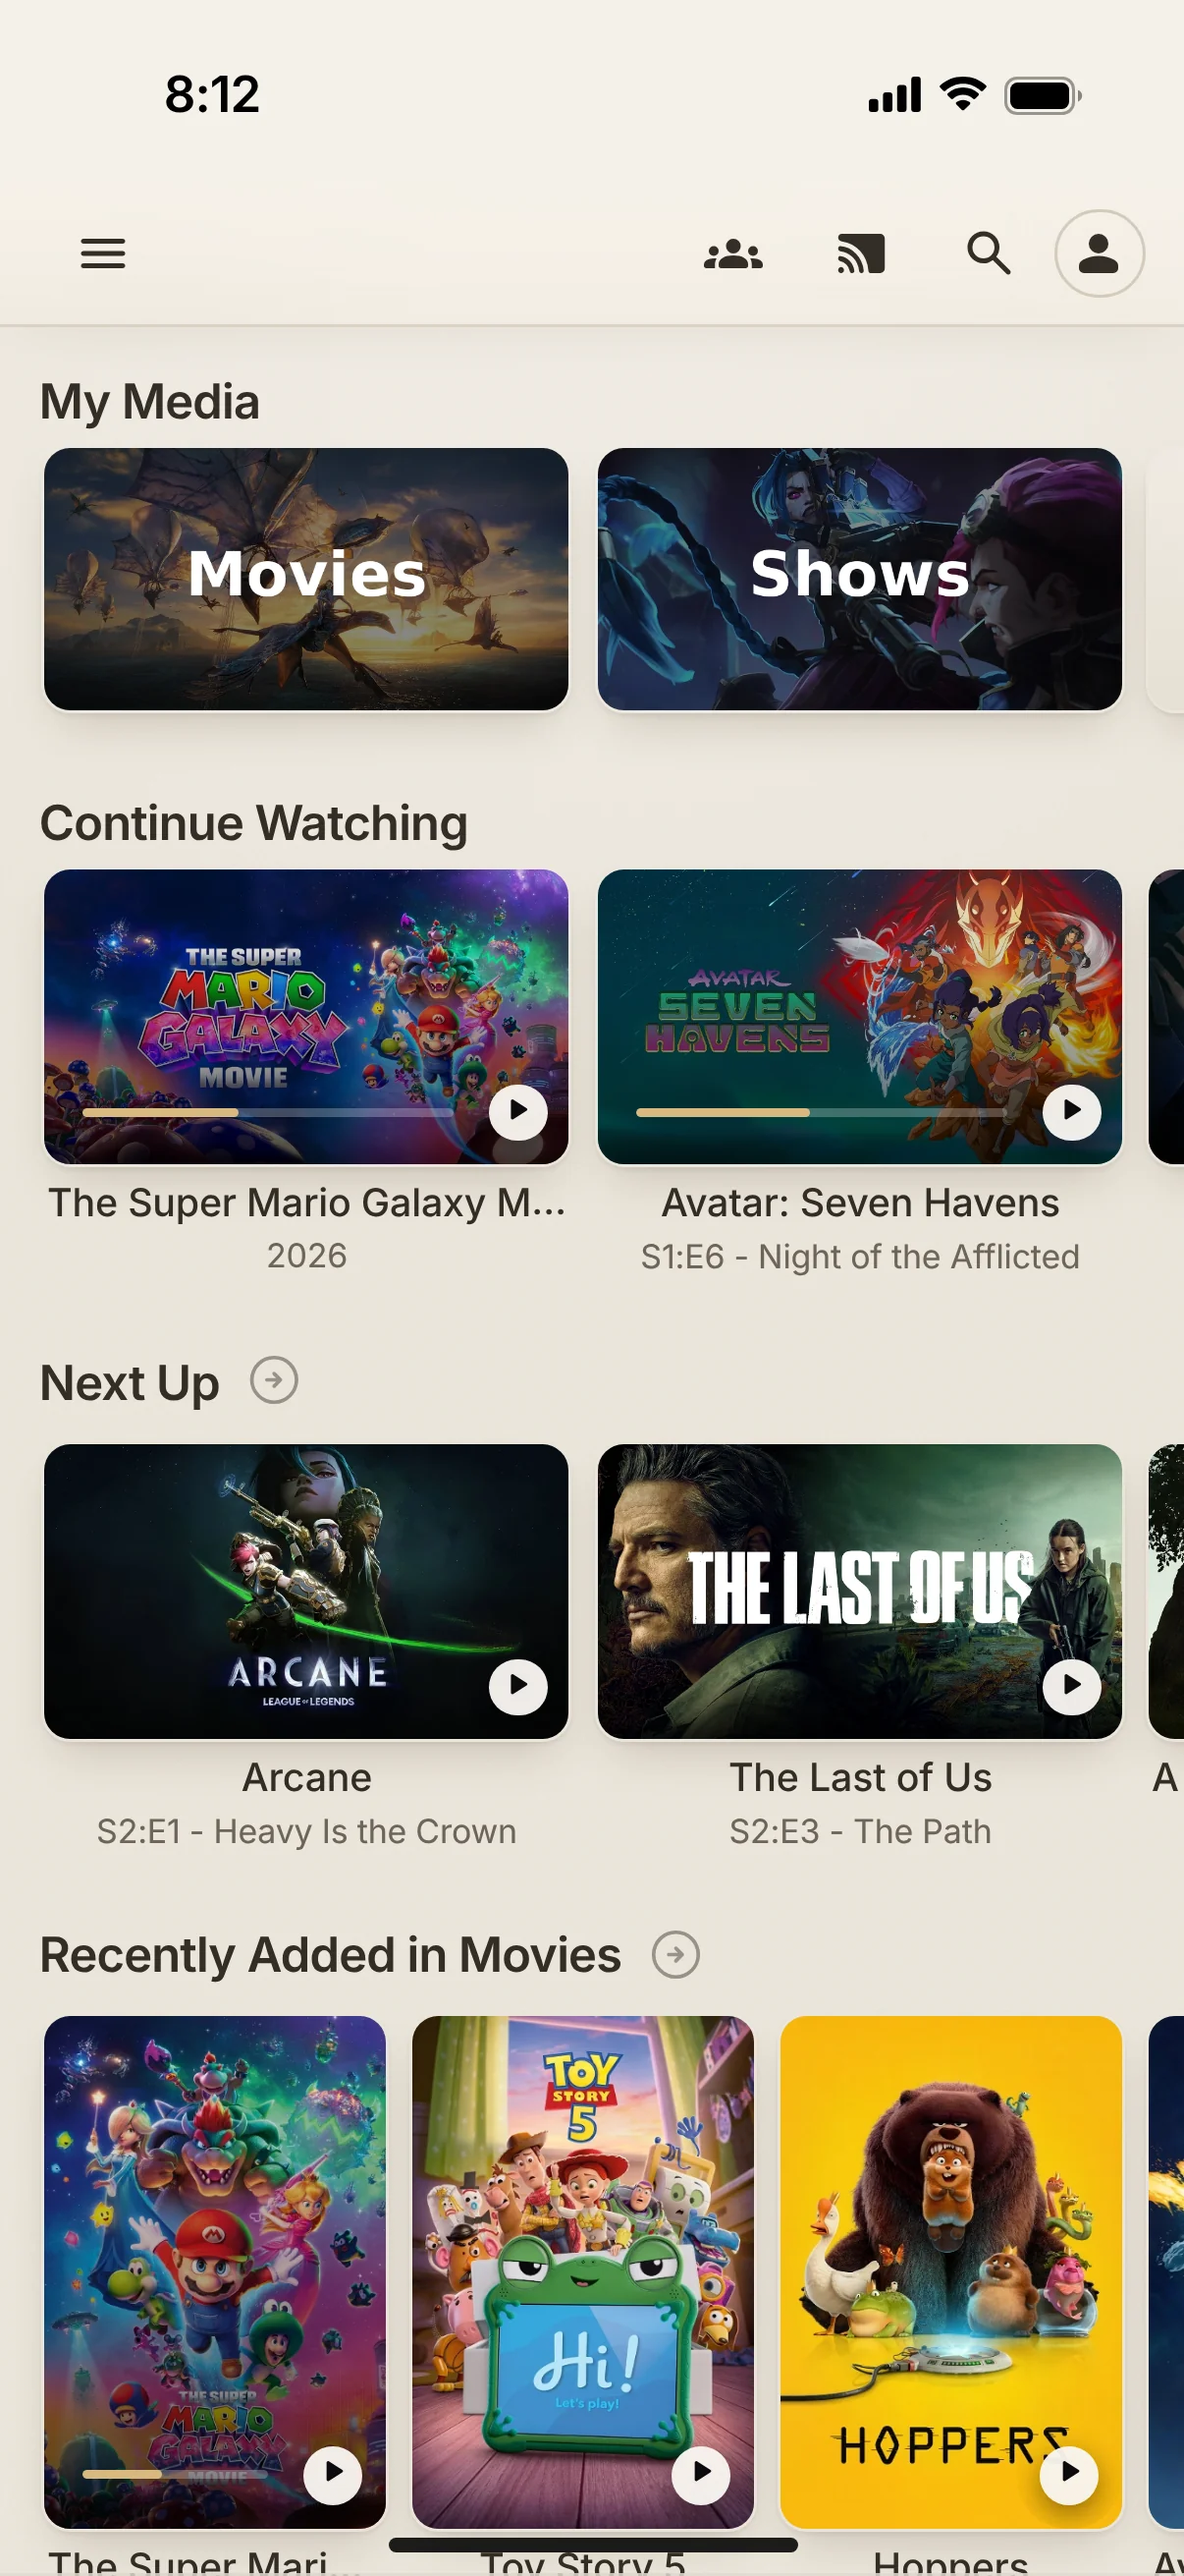
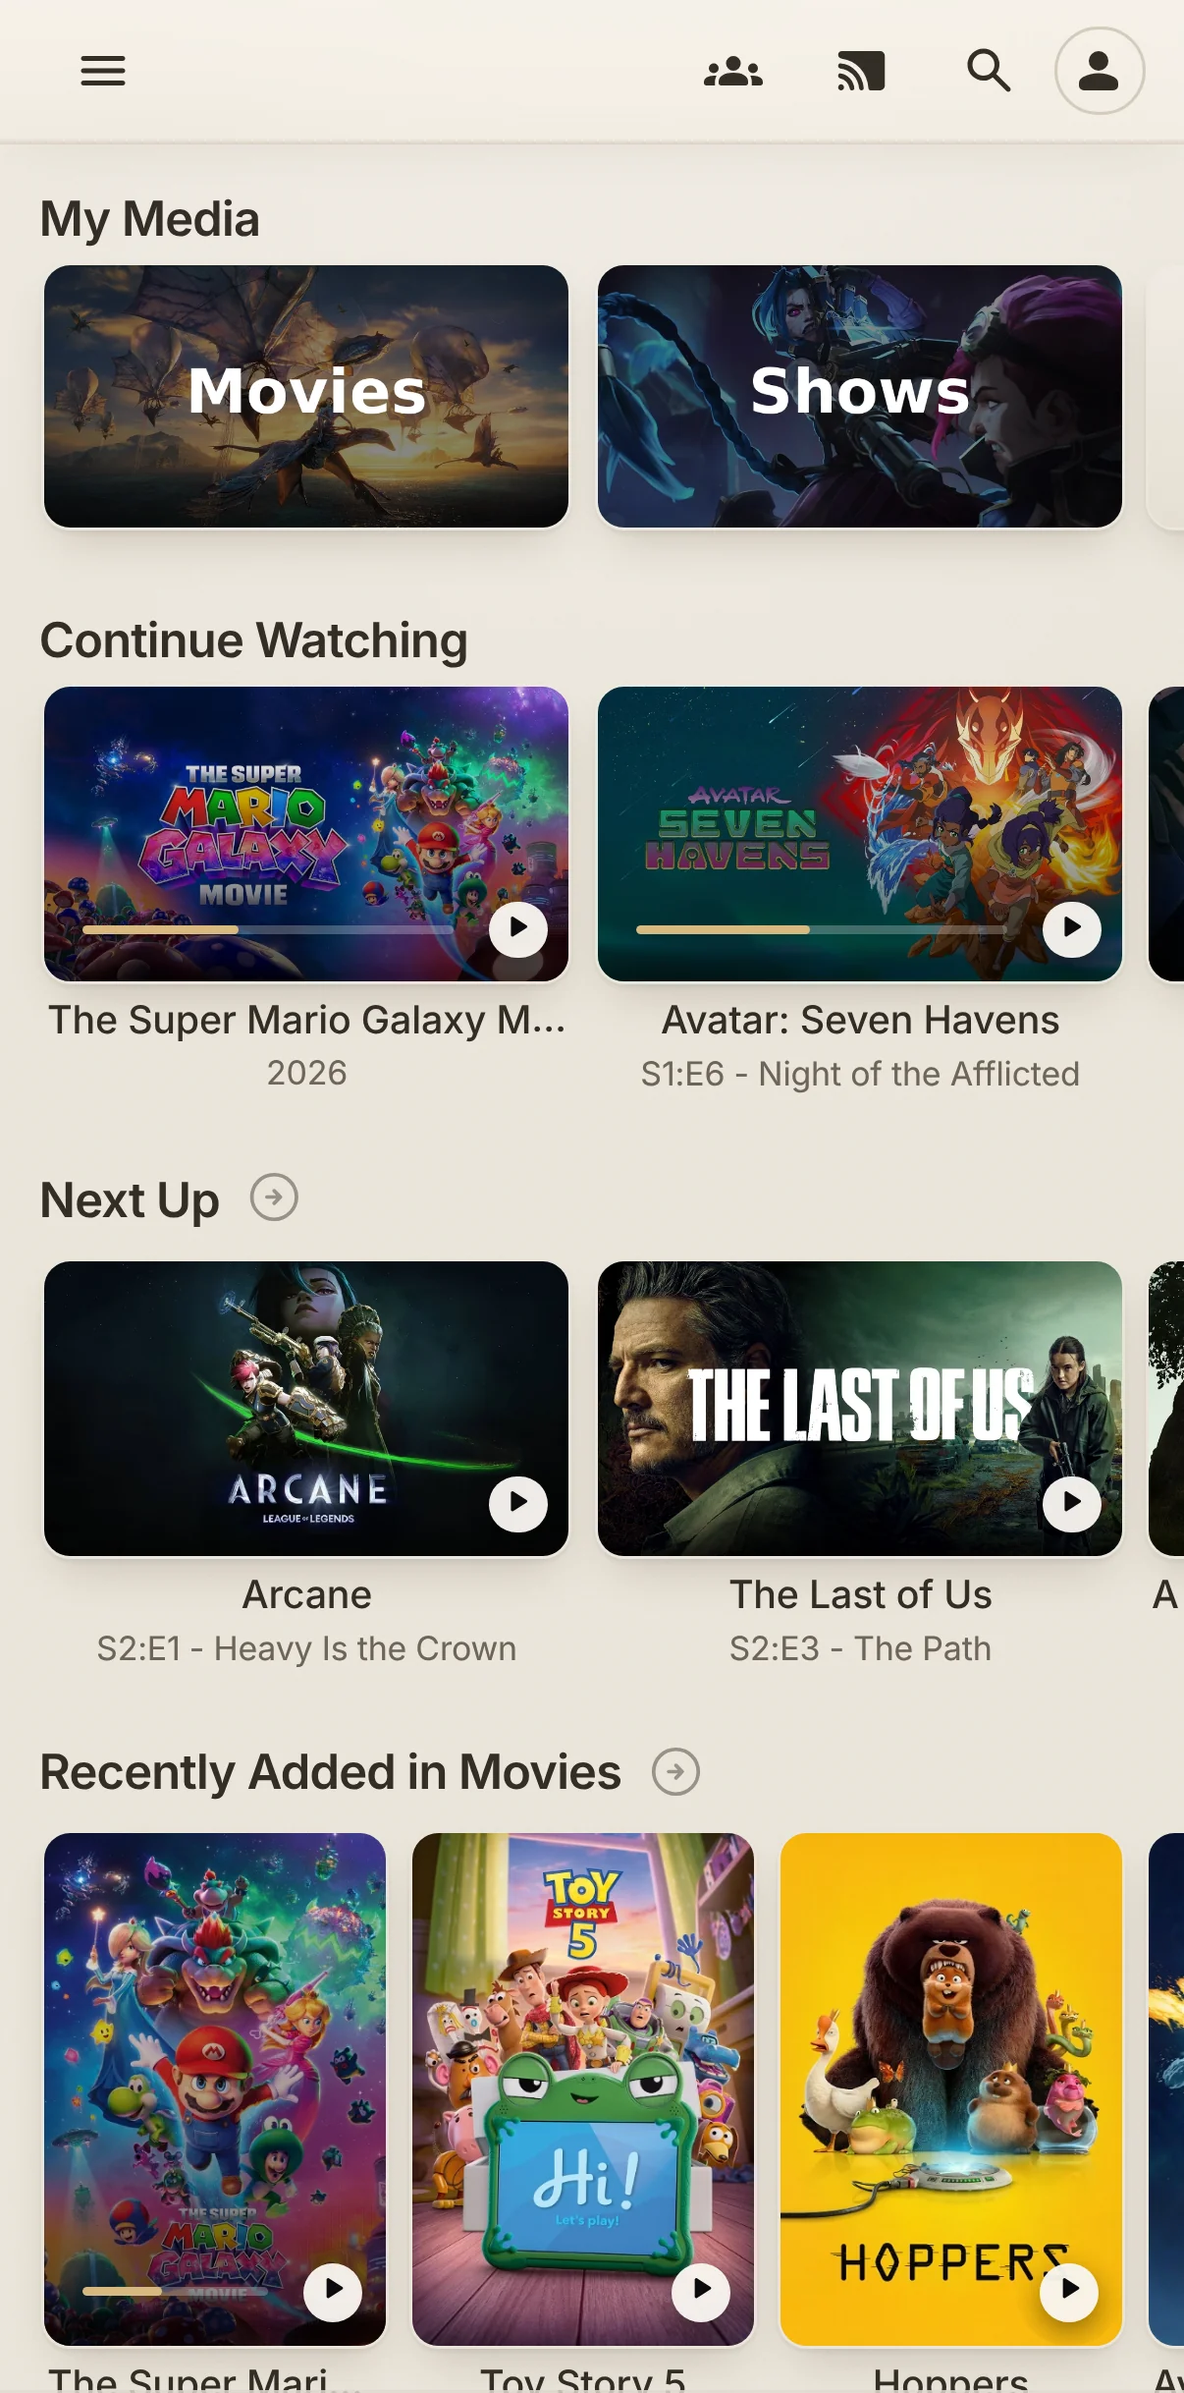
Previews: phone screenshots without the status bar of the phone
- phone: the screenshots show only the app, without the time, the battery, the network and the home indicator of the phone
- mockups: the phones show only the app as well; around the Dynamic Island, the screen keeps the color of the app bar
- README: the note below the previews no longer mentions the status bar

Claude-Session: https://claude.ai/code/session_014wMszyCnmwMew8is4GfuSi

diff --git a/README.md b/README.md
@@ -435,7 +435,7 @@ Each option goes into the Custom CSS code box, after the import. To undo one, re
 
 </details>
 
-The screenshots show Fintage v1.3.1 on Jellyfin 12.2 with the optional scripts of option 15. The phone screenshots have the status bar of a phone above the app, as Jellyfin looks when it is installed on a phone, and the images at the top and in `Previews/mockups` put real screenshots into frames of devices. The library holds only placeholder files without real video; the titles, the artwork and the information come from [TMDB](https://www.themoviedb.org), the channel logos from [tv-logo/tv-logos](https://github.com/tv-logo/tv-logos) and the TV guide from [open-epg.com](https://www.open-epg.com), and all of them belong to their owners.
+The screenshots show Fintage v1.3.1 on Jellyfin 12.2 with the optional scripts of option 15, and the images at the top and in `Previews/mockups` put real screenshots into frames of devices. The library holds only placeholder files without real video; the titles, the artwork and the information come from [TMDB](https://www.themoviedb.org), the channel logos from [tv-logo/tv-logos](https://github.com/tv-logo/tv-logos) and the TV guide from [open-epg.com](https://www.open-epg.com), and all of them belong to their owners.
 
 <hr>
 
